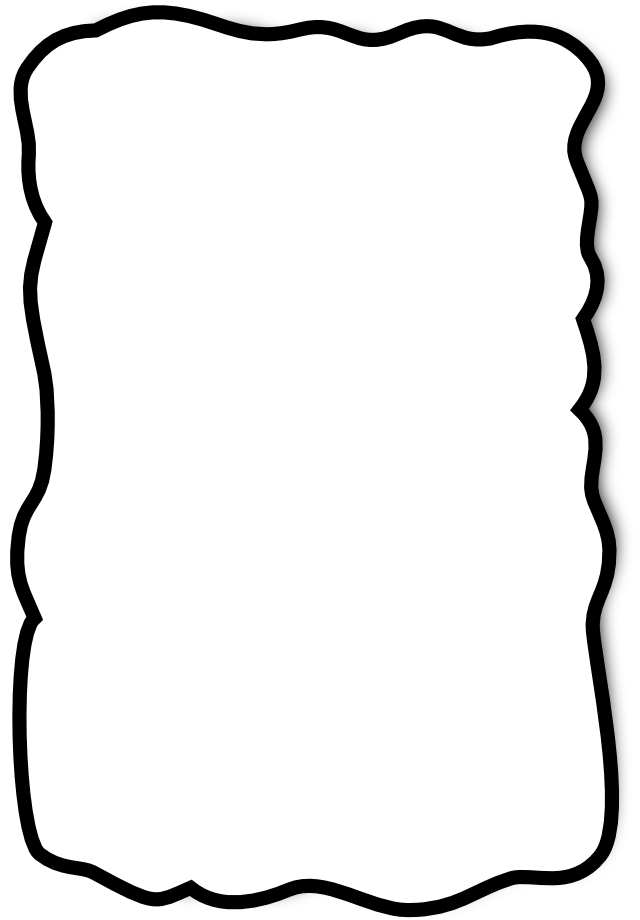
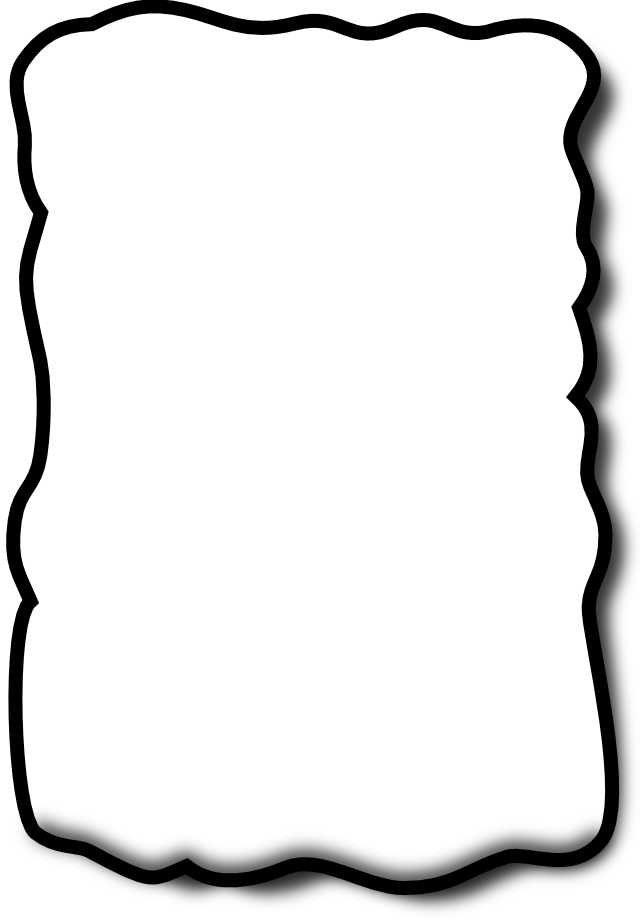
Updated all bubble graphics #55

Changed region(s): [[0.0312, 0.0609, 1.0, 1.0], [0.0, 0.0, 0.9062, 0.8522]]

diff --git a/Classes/Controller/ConscienceViewController.m b/Classes/Controller/ConscienceViewController.m
@@ -301,7 +301,7 @@ static int thoughtVersion = 0;
 //    thoughtBubbleView2.hidden = FALSE;
     conscienceStatus.hidden = FALSE;
 
-    [UIView animateWithDuration:0.75 delay:0 options:(UIViewAnimationOptionCurveEaseInOut | UIViewAnimationOptionBeginFromCurrentState) animations:^{
+    [UIView animateWithDuration:0.25 delay:0 options:(UIViewAnimationOptionCurveEaseInOut | UIViewAnimationOptionBeginFromCurrentState) animations:^{
         thoughtBubbleView1.alpha = 1;
 //        thoughtBubbleView2.alpha = 1;
         conscienceStatus.alpha = 1;
@@ -337,7 +337,7 @@ static int thoughtVersion = 0;
  */
 -(void)hideThought{
 
-    [UIView animateWithDuration:0.75 delay:0 options:(UIViewAnimationOptionCurveEaseInOut | UIViewAnimationOptionBeginFromCurrentState) animations:^{
+    [UIView animateWithDuration:0.25 delay:0 options:(UIViewAnimationOptionCurveEaseInOut | UIViewAnimationOptionBeginFromCurrentState) animations:^{
         thoughtBubbleView1.alpha = 0;
 //        thoughtBubbleView2.alpha = 0;
         conscienceStatus.alpha = 0;
